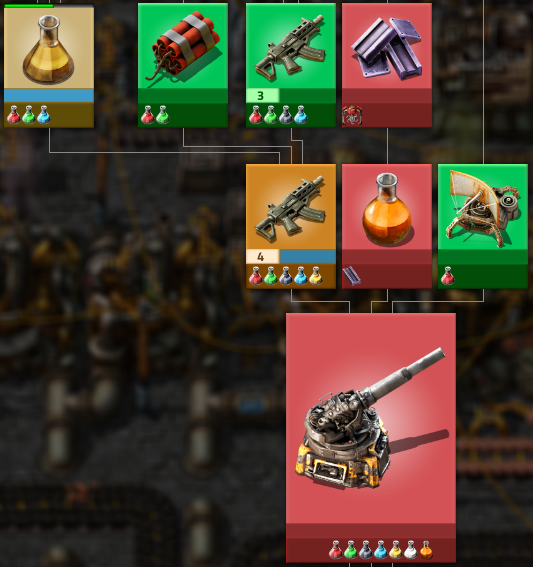
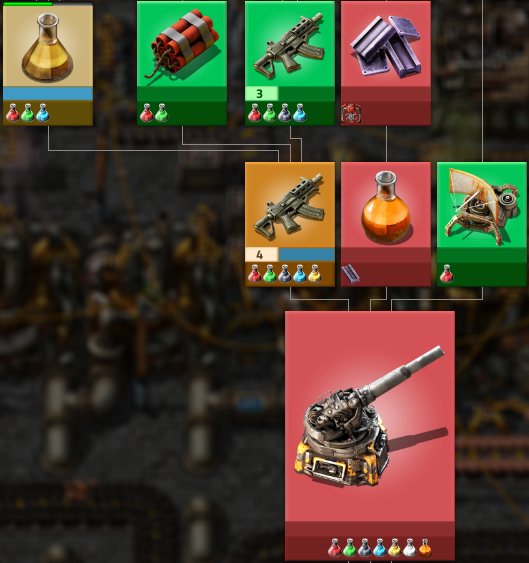
imgs update

diff --git a/README.md b/README.md
@@ -1,4 +1,8 @@
 # Tech Tree Colors
 ## A Factorio mod, changes available tech color to more contrast in tech tree
 
+### Modified
 <img src="thumbnail.png"/>
+
+### Original
+<img src="original.png"/>
